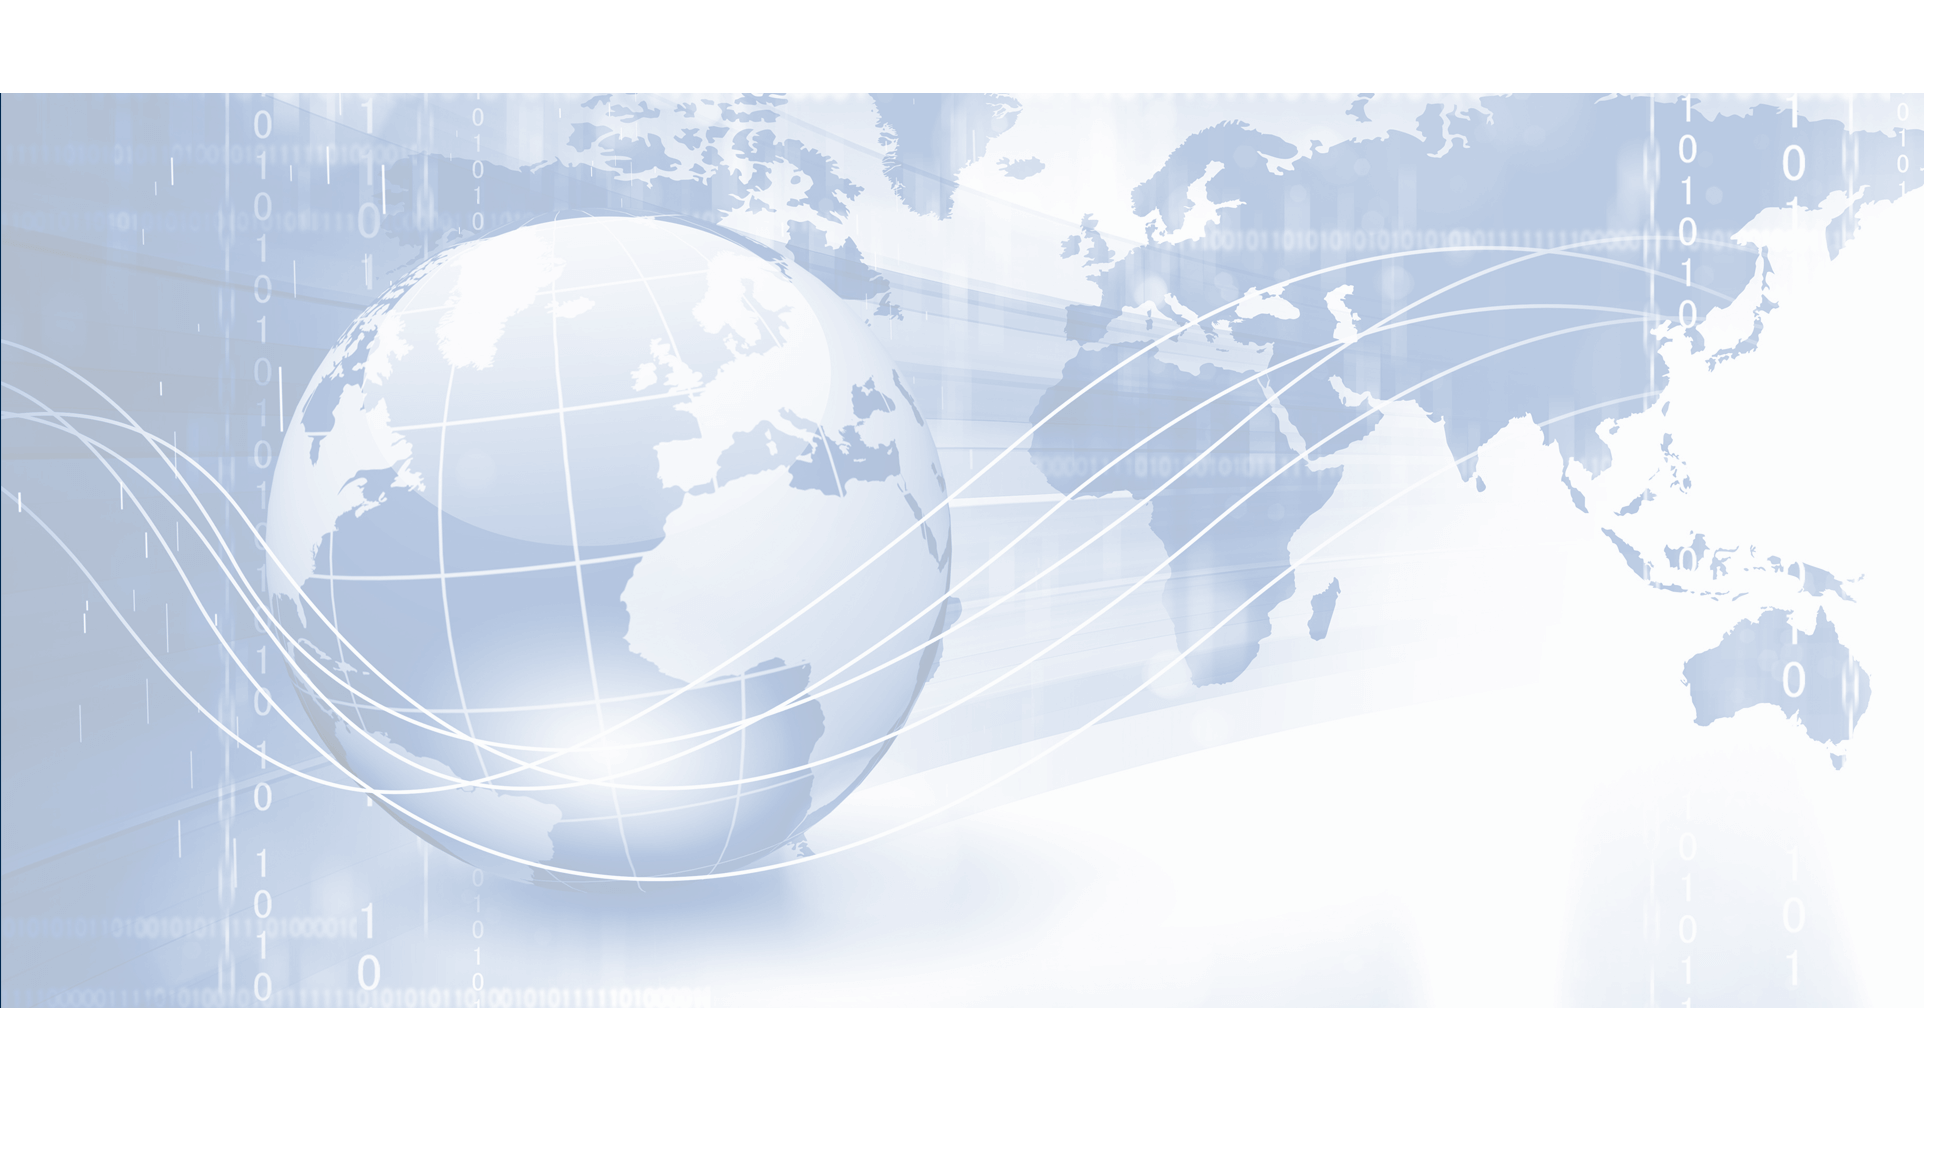
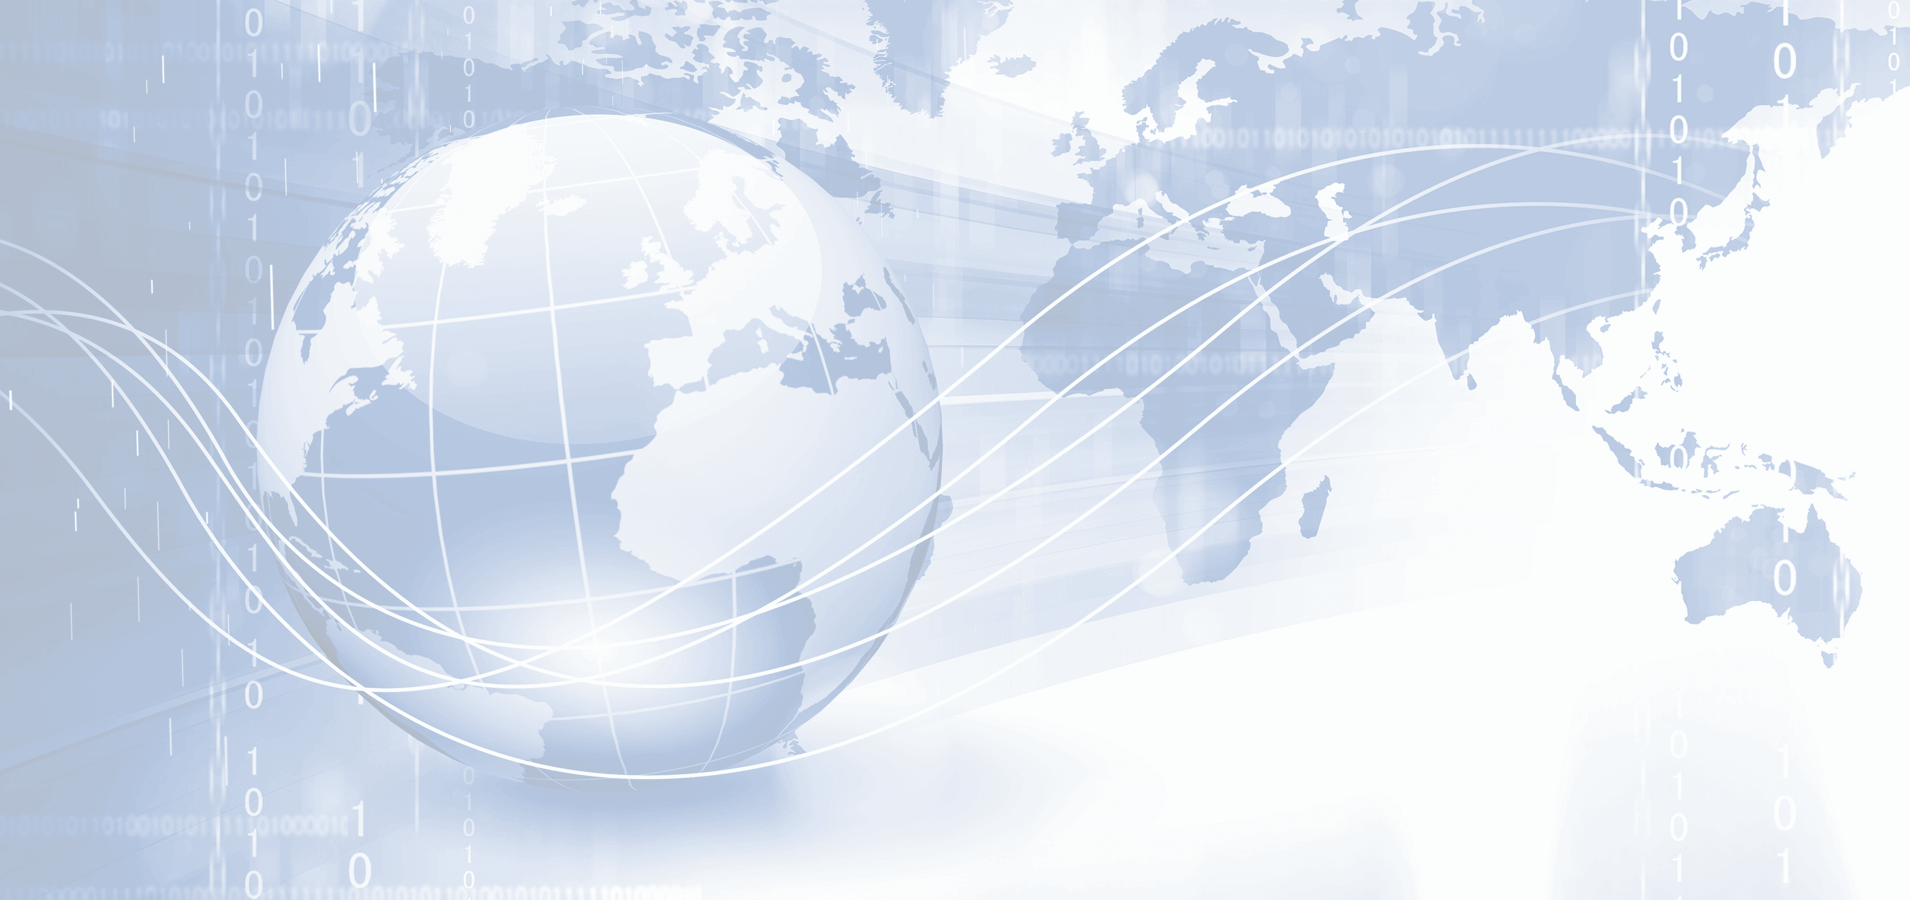
Resize image for prices

diff --git a/landing/static/index.css b/landing/static/index.css
@@ -12,3 +12,13 @@ html {
 .title-background {
   width: 100%;
 }
+
+.price {
+  position: relative;
+  padding-left: 0;
+  padding-right: 0;
+}
+
+.price-background {
+  width: 100%;
+}
